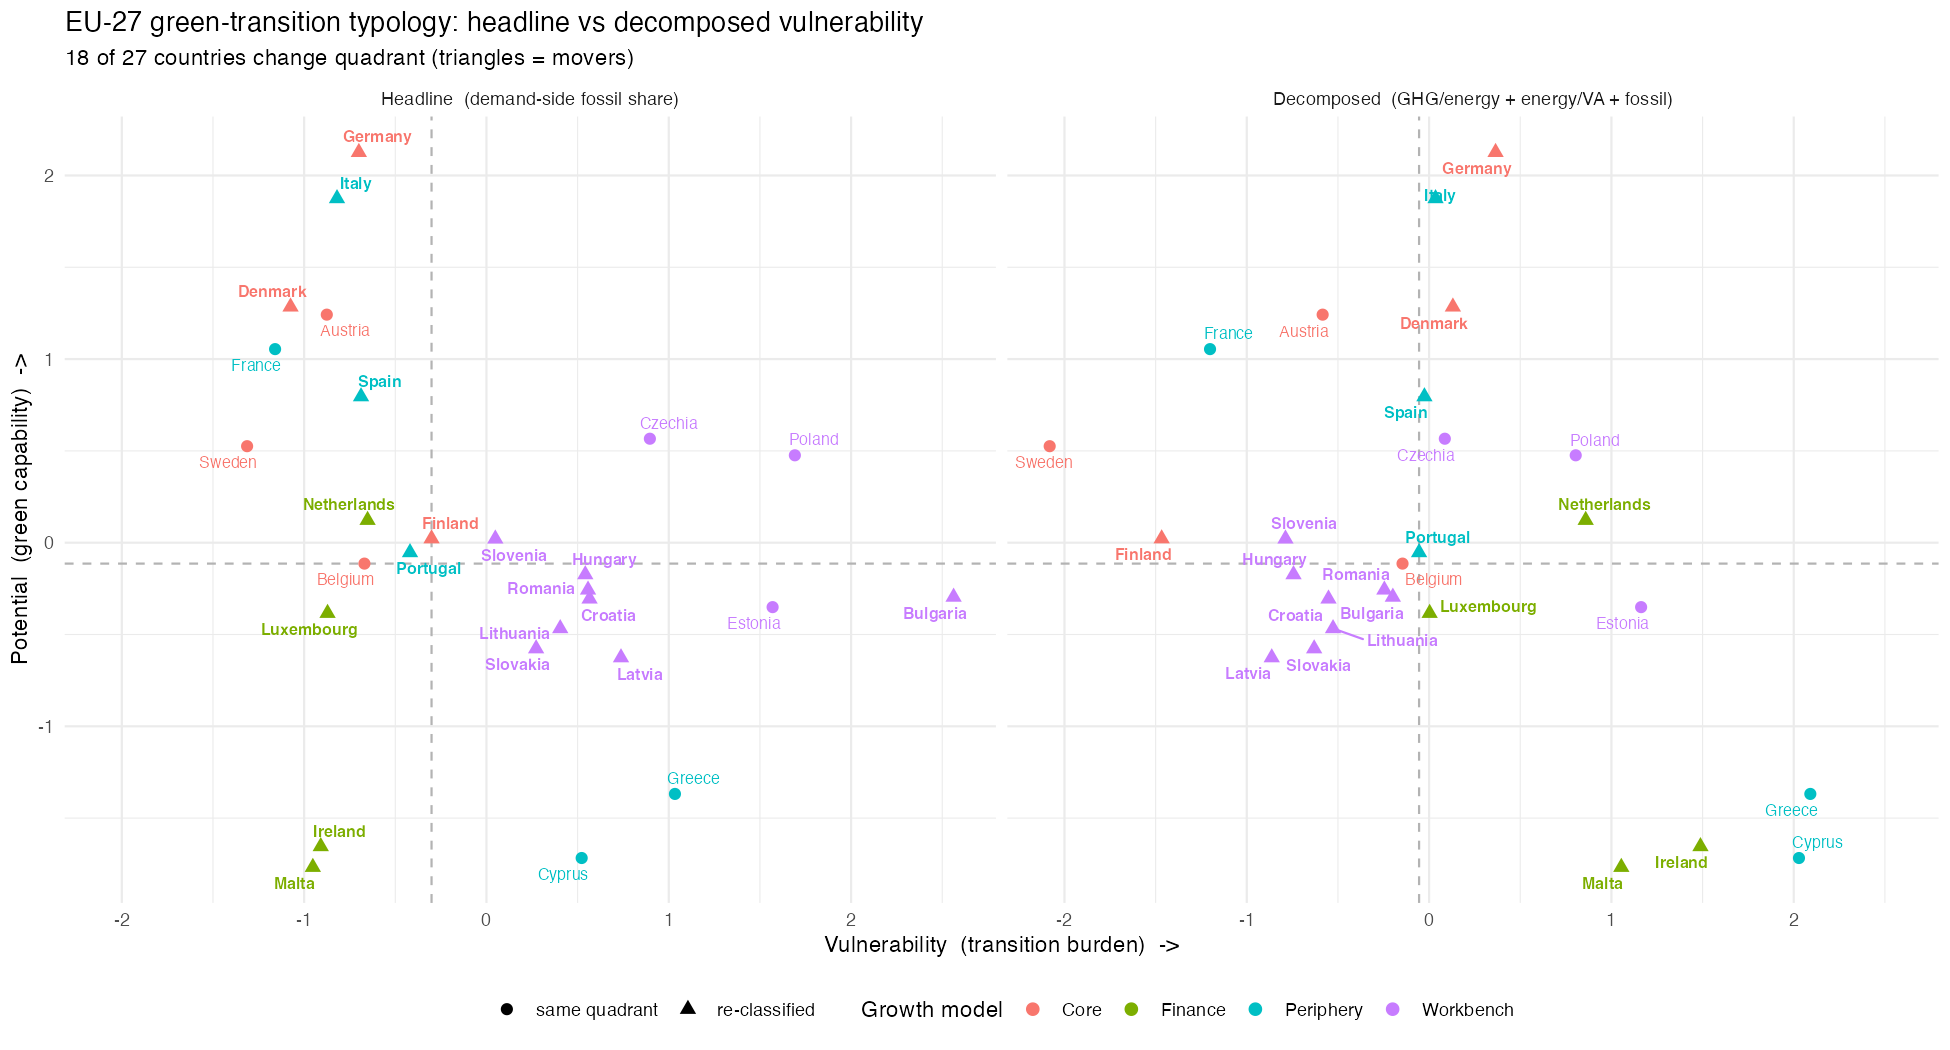
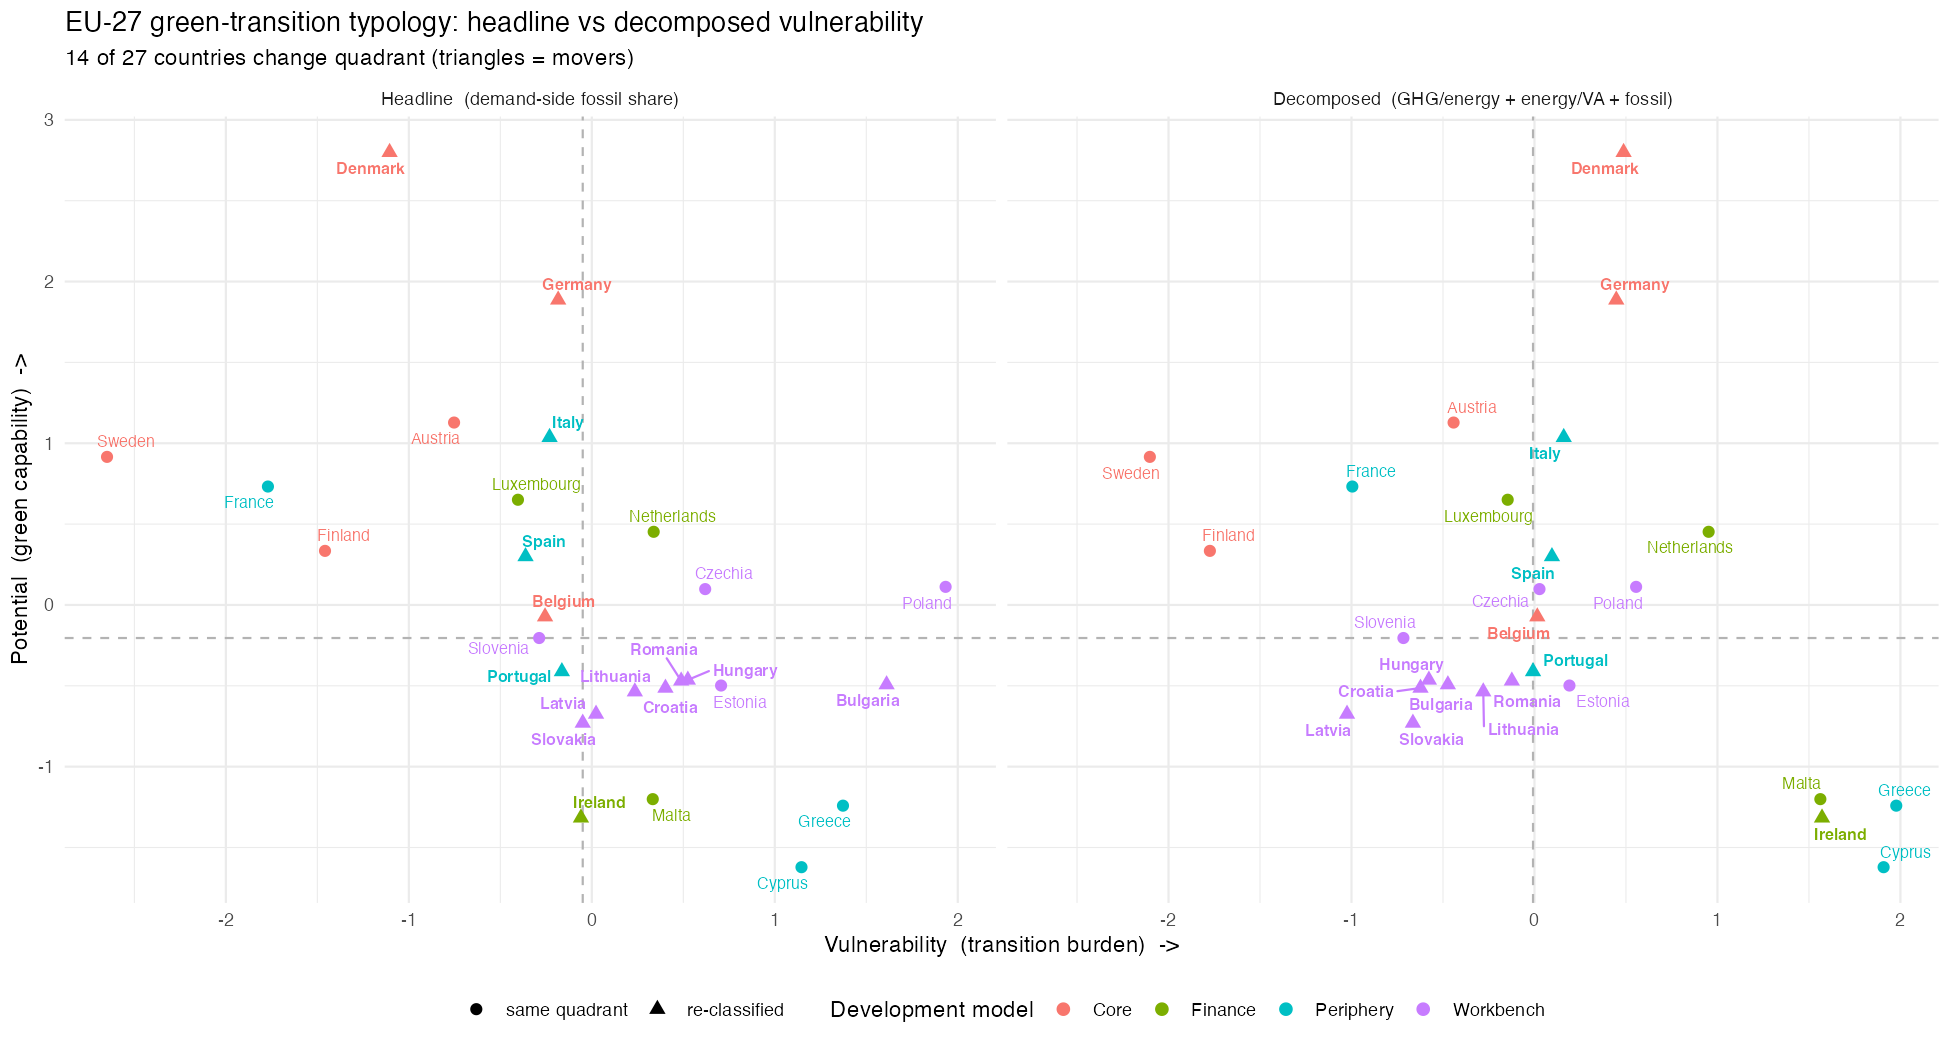
Reproduce rather than date the two remaining figures; fix a baseline defect
Dating the unreproducible figures was the wrong call -- a number that
cannot be reproduced in the current setting does not belong in the pack.
Both turned out to be reproducible, and both were wrong.

  income-neutral spec "reclassified 18/27"  ->  14/27
  "silhouette ~0.28 at k = 3"               ->  0.33 at k = 3, max 0.39 at k = 7

The silhouette conclusion survives -- every value is far below the ~0.5
usually taken to indicate real structure, and the gap statistic prefers
k = 1 -- but the quoted numbers were wrong and the implication that k = 3
was the best candidate was unsupported. The text now gives the range and
says plainly there is no natural number of clusters to find.

A DEFECT FOUND WHILE REPRODUCING THE FIRST. appendix_decomposed_map.R
predated the four-dimension restructure and still scored BOTH
specifications with block_score() -- a flat single PCA -- while
04_typology.R had moved to axis_score(). Its "headline" was therefore not
the headline: quadrant totals of 4/10/9/4 against the real 11/3/2/11,
with Austria and Finland shown as Exposed rather than Winners. Every
reclassification count taken from that script was measured against the
wrong baseline, which is where 18/27 came from.

Fixed. The script now also ASSERTS that its headline matches
taxonomy_scores.csv before comparing anything, so the baseline cannot
drift again. The decomposed spec keeps its flat PCA deliberately -- that
undifferentiated treatment is the specification being tested.
[…]

diff --git a/writing/verification-log.md b/writing/verification-log.md
@@ -41,9 +41,38 @@ figures; the entire convergence table including skew and the log-scale
 comparison; all quadrant-stability figures; the v1 double-counting inflation
 (1.667× and every per-country ratio); the EXIOBASE revision ratios.
 
-## One methodological caveat
+## Second pass (same day): "if it cannot be reproduced, remove it"
 
-The claim that a fully income-neutral specification "reclassified 18/27
-countries" is **historical** — it was measured in July 2026 on the 2014–2018
-window and has not been recomputed for the present specification. It is now
-dated in the text rather than presented as current.
+The first pass *dated* two figures rather than resolving them. That was the wrong
+call — a number that cannot be reproduced in the current setting does not belong
+in the pack. Both turned out to be reproducible, and both were wrong.
+
+| claim as written | actual | note |
+|---|---|---|
+| income-neutral spec "reclassified 18/27" | **14/27** | reproducible after fixing a defect, see below |
+| "silhouette ~0.28 at k = 3" | **0.33** at k = 3; max **0.39** at k = 7 | k = 3 was never the peak |
+
+The silhouette conclusion survives (all values are far below the ~0.5 threshold
+and the gap statistic prefers k = 1), but the numbers quoted were wrong and the
+implication that k = 3 was the best candidate was unsupported.
+
+### A defect found while reproducing the first one
+
+`R/appendix_decomposed_map.R` predated the four-dimension restructure and still
+scored **both** specifications with `block_score()` — a flat single PCA — while
+`04_typology.R` had moved to `axis_score()`. Its "headline" map was therefore not
+the headline: it reported quadrant totals of 4/10/9/4 against the real 11/3/2/11,
+with Austria and Finland shown as *Exposed* rather than *Winners*. Every
+reclassification count taken from that script was against the wrong baseline,
+which is where "18/27" came from.
+
+Fixed, and the script now **asserts** that its headline matches
+`taxonomy_scores.csv` before comparing anything, so the baseline cannot drift
+again.
+
+## Standing rule
+
+A figure that cannot be reproduced from committed code in the current
+specification is removed, not annotated. Re-run this audit after any change to
+the window, the patent measure, or the data vintage — six of the eight errors in
+the first pass came from exactly those.

diff --git a/writing/results-summary.md b/writing/results-summary.md
@@ -49,10 +49,13 @@ Within each block one part is income-linked and one is income-neutral, on
 opposite diagonals: intensity and patents track GDP p.c.; fossil share and
 complexity do not. Equal-weighting makes income **present but balanced in both
 blocks** — R²(vuln ~ log GDP) = 0.27, R²(pot ~ log GDP) = 0.21. Income is not
-purged (a fully income-neutral specification was tested and rejected in July 2026
-on the then-current 2014–2018 window, where it reclassified 18 of 27 countries and
-produced an undifferentiated map; that figure has not been recomputed for the
-present window); it is simply no longer the sole driver of either axis.
+purged: a fully income-neutral specification — decomposing carbon intensity into
+GHG-per-energy and energy-per-value-added — was tested and rejected. On the
+current window it achieves R²(vulnerability ~ log GDP) = **0.00** but
+**reclassifies 14 of 27 countries** and correlates only 0.44 (Spearman) with the
+headline vulnerability axis, i.e. it is a different map rather than a
+de-biased one (`evidence/appendix_decomposed_reclass.csv`). Income is simply no
+longer the sole driver of either axis.
 
 The twins are near-orthogonal to their standalone (intensity↔fossil −0.01,
 complexity↔patents 0.19), confirming these are genuinely two dimensions per block
@@ -334,8 +337,11 @@ Three robustness results deserve to be findings in their own right:
    perfectly (0/27 for 2019–2021, 2020–2022, 2018–2022). Only pre-2019 windows
    differ, and always by the same two borderline countries (Ireland, Slovakia).
 
-Clustering diagnostics support the continuous map over hard clusters: silhouette
-is low (~0.28 at k=3) and the gap statistic prefers k=1.
+Clustering diagnostics support the continuous map over hard clusters. Average
+silhouette width never exceeds **0.39** at any k from 2 to 8 (0.27 at k = 2,
+0.33 at k = 3, peaking at 0.39 at k = 7) — all well below the ~0.5 usually taken
+to indicate real structure — and the **gap statistic prefers k = 1**, i.e. no
+clustering at all. There is no natural number of clusters to find.
 
 ## 8. Burden vs. responsibility (the offshoring layer)
 

diff --git a/writing/evidence/numbers.md b/writing/evidence/numbers.md
@@ -1,6 +1,6 @@
 # Key numbers
 
-*Generated 2026-09-03 from commit 45c33b9 by R/build_writing_pack.R.*
+*Generated 2026-09-03 from commit 3eb967d by R/build_writing_pack.R.*
 
 Every figure below is computed from the committed pipeline output. **Use these
 values verbatim; do not recompute, round differently, or estimate.** If a number
